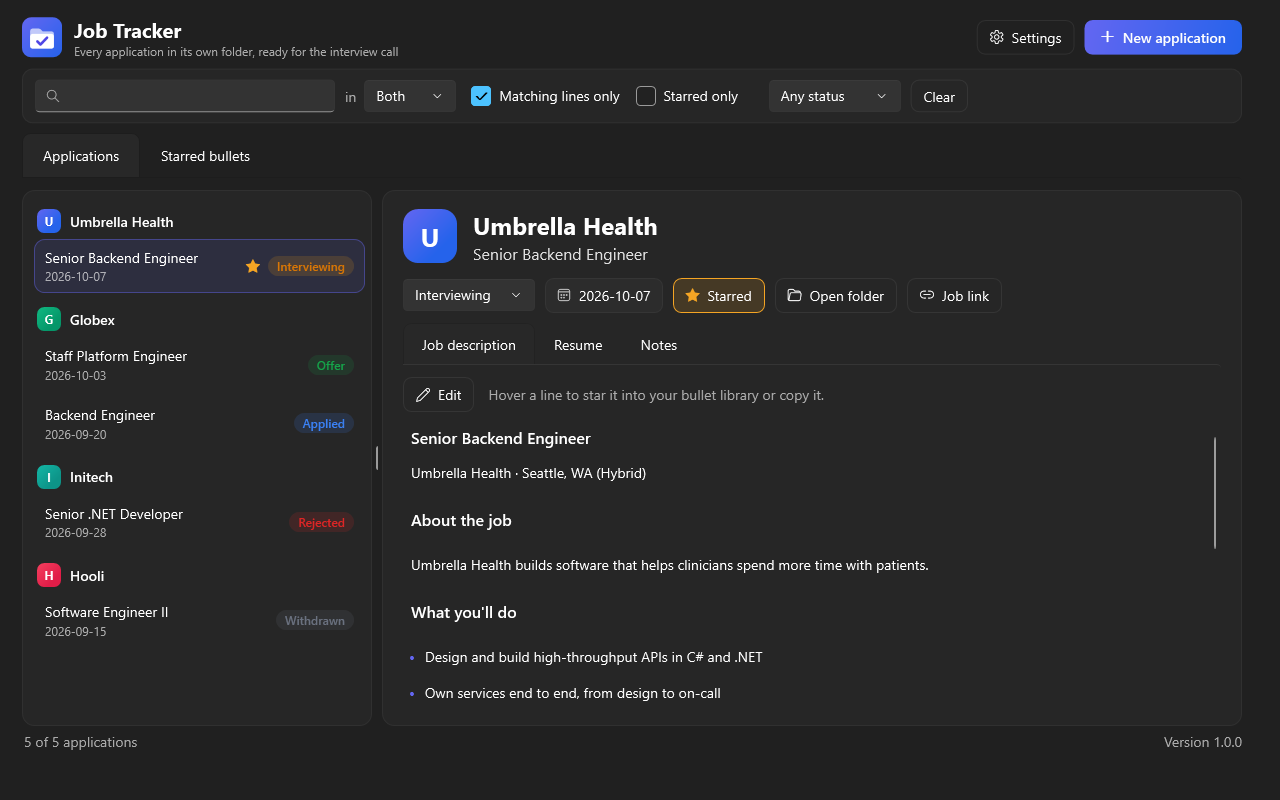
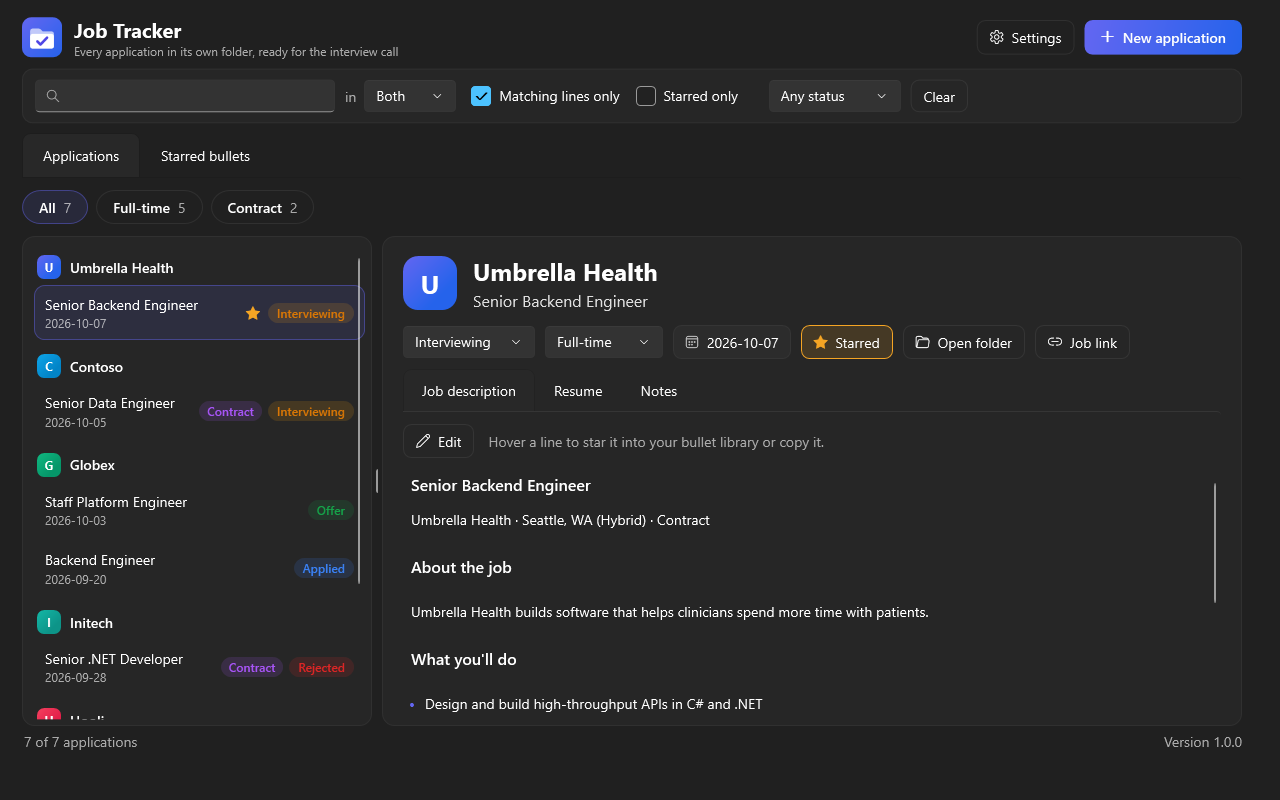
docs: describe the Full-time and Contract tabs, with new screenshots
README explains the tabs and the job type, and the screenshots show the new tab strip (invented sample data).

diff --git a/README.md b/README.md
@@ -19,7 +19,7 @@
 <p align="center">
   <img alt=".NET 10" src="https://img.shields.io/badge/.NET-10-512BD4">
   <img alt="WPF" src="https://img.shields.io/badge/UI-WPF%20%28MVVM%29-0078D4">
-  <img alt="Tests" src="https://img.shields.io/badge/tests-132%20passing-2EA043">
+  <img alt="Tests" src="https://img.shields.io/badge/tests-158%20passing-2EA043">
   <img alt="Platform" src="https://img.shields.io/badge/platform-Windows%2010%2F11-lightgrey">
   <img alt="License: MIT" src="https://img.shields.io/badge/license-MIT-green">
   <a href="https://github.com/srinadhmanchikalapudi/job-tracker/releases/latest"><img alt="Latest release" src="https://img.shields.io/github/v/release/srinadhmanchikalapudi/job-tracker?label=release"></a>
@@ -49,6 +49,7 @@ Applying to jobs means tailoring a resume for each posting. A week later, when a
 
 - **Paste, don't type.** Copy the whole job page (Ctrl+A, Ctrl+C) and paste it in. Company, role and link fill in on their own.
 - **Clean job descriptions.** Menus, buttons, "Similar jobs" lists and cookie banners are removed. Headings, bullets and blank lines stay exactly as pasted. A preview shows the result first, and the original is kept as `jd.original.txt`.
+- **Full-time and contract, kept apart.** Tabs above the applications (All, Full-time, Contract, each with a count) separate the two kinds. Choose the type when you add an application: it is filled in for you when the posting says "Contract", and it starts as the tab you are on. You can change it later, and the application moves to the other tab.
 - **One folder per application**, easy to find in Explorer: `JobApplications\<Company>\<date>_<Role>\`.
 - **Search by keyword** inside job descriptions, resumes, or both. Every word must appear, and matching lines are highlighted.
 - **Star the lines you want to reuse.** Hover any line to star it into your bullet library, or copy it (the leading dash is dropped). The **Starred bullets** tab is a searchable library of your best resume lines.
@@ -72,6 +73,7 @@ Applying to jobs means tailoring a resume for each posting. A week later, when a
 |---|---|
 | Add an application | **New application** (Ctrl+N). Paste the job page into the job description box, paste your resume, check the filled-in company and role, and click **Save application**. |
 | See the cleaned description before saving | **Preview clean-up** above the job description box. Untick the clean-up checkbox to keep the paste exactly as it is. |
+| Keep contract and full-time roles apart | Use the **All / Full-time / Contract** tabs above the list. **Job type** in the New application window decides the tab (it is picked for you when the posting says contract, and starts as the tab you are on). To change it later, use the job type box on the application. |
 | Find an application | **Search** (Ctrl+F). Choose **JD**, **Resume** or **Both**, tick **Matching lines only** to hide everything else, and filter by status or starred. |
 | Keep a resume line for later | Hover the line and click the star. It appears under **Starred bullets** with its company and role. |
 | Copy a line into a new resume | Click the copy icon on the line, or **Copy** in Starred bullets. |
@@ -84,7 +86,7 @@ Applying to jobs means tailoring a resume for each posting. A week later, when a
 JobApplications\
   Acme Corp\
     2026-10-07_Senior Backend Engineer\
-      jd.md  resume.md  notes.md  meta.json
+      jd.md  resume.md  notes.md  meta.json     # meta.json holds the status and whether it is full-time or contract
       jd.original.txt                  # the JD exactly as pasted, only when clean-up changed it
   .jobtracker\bullets.json             # your starred bullets
 ```

diff --git a/CLAUDE.md b/CLAUDE.md
@@ -7,7 +7,7 @@ starred bullets and in-app updates from GitHub Releases. Read `README.md` for th
 
 ```
 dotnet run --project src/JobTracker.App
-dotnet test                                  # all tests (132 at last count)
+dotnet test                                  # all tests (158 at last count)
 dotnet build JobTracker.slnx -c Release      # use -c Release when the user has the Debug exe running
 powershell -ExecutionPolicy Bypass -File tools\publish.ps1 -Version 1.0.0 -Installer
 ```
